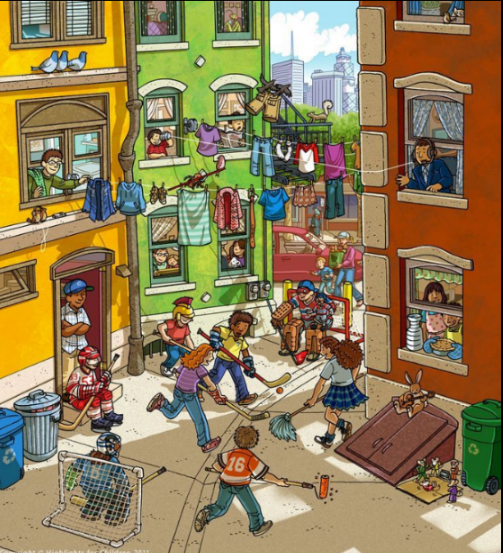
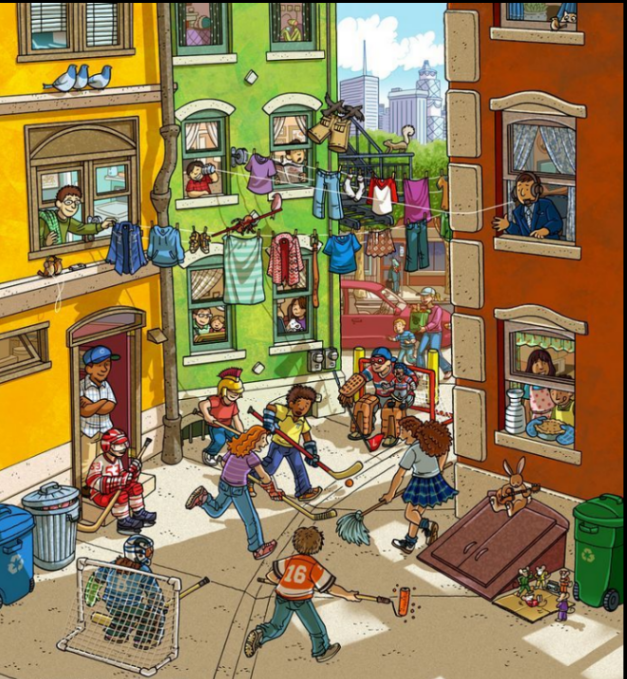
change format for image 5

diff --git a/user_interface/views/ui/page1.py b/user_interface/views/ui/page1.py
@@ -34,7 +34,7 @@ class Ui_Form(object):
         self.answer4.setObjectName("answer4")
         self.gridLayout_5.addWidget(self.answer4, 6, 5, 1, 1)
         self.mainImage = QtWidgets.QLabel(self.widget)
-        self.mainImage.setMaximumSize(QtCore.QSize(800, 600))
+        self.mainImage.setMaximumSize(QtCore.QSize(700, 500))
         self.mainImage.setScaledContents(True)
         self.mainImage.setObjectName("mainImage")
         self.gridLayout_5.addWidget(self.mainImage, 2, 2, 1, 5, QtCore.Qt.AlignHCenter)
